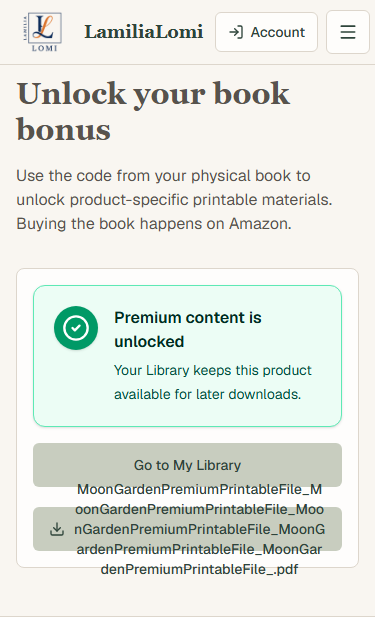
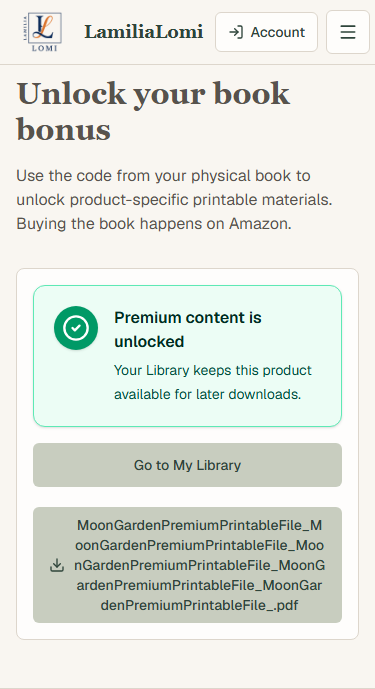
Keep long download names inside their buttons

diff --git a/tests/e2e/premium-mobile-overflow.spec.ts b/tests/e2e/premium-mobile-overflow.spec.ts
@@ -59,8 +59,14 @@ test("unlocked premium and account fit narrow mobile widths", async ({ page }, t
     await expect.poll(() => page.evaluate(() => document.documentElement.scrollWidth <= document.documentElement.clientWidth)).toBe(true);
     await expect(downloadLink).toBeVisible();
     const bounds = await downloadLink.boundingBox();
-    expect(bounds).not.toBeNull();
-    expect(bounds!.x + bounds!.width).toBeLessThanOrEqual(width + 1);
+    const filenameBounds = await filename.boundingBox();
+    const libraryBounds = await page.getByTestId("unlock-success-state").locator("..")
+      .getByRole("link", { name: "Go to My Library" }).boundingBox();
+    if (!bounds || !filenameBounds || !libraryBounds) throw new Error("Premium actions must be visible.");
+    expect(bounds.x + bounds.width).toBeLessThanOrEqual(width + 1);
+    expect(bounds.y).toBeGreaterThanOrEqual(libraryBounds.y + libraryBounds.height);
+    expect(filenameBounds.y).toBeGreaterThanOrEqual(bounds.y);
+    expect(filenameBounds.y + filenameBounds.height).toBeLessThanOrEqual(bounds.y + bounds.height);
     await page.getByTestId("product-unlock-section").screenshot({ path: join(screenshotDirectory, `premium-unlocked-${width}.png`) });
   }
 });

diff --git a/src/app/api/admin/products/[productId]/shared-code/route.ts b/src/app/api/admin/products/[productId]/shared-code/route.ts
@@ -23,9 +23,9 @@ export async function POST(request: Request, { params }: Context) {
   if (!body || typeof body !== "object" || typeof (body as { active?: unknown }).active !== "boolean") return json({ error: "invalid_request" }, 400);
   const active = (body as { active: boolean }).active;
   const rawCode = typeof (body as { code?: unknown }).code === "string" ? (body as { code: string }).code.trim() : null;
+  if (rawCode && !/^[A-Za-z0-9]+(?:-[A-Za-z0-9]+)*$/.test(rawCode)) return json({ error: "invalid_code_format" }, 400);
+  if (rawCode && (rawCode.length < 3 || rawCode.length > MAX_PREMIUM_CODE_LENGTH)) return json({ error: "invalid_code_length" }, 400);
   const requestedCode = rawCode ? rawCode.toUpperCase() : null;
-  if (requestedCode && !/^[A-Z0-9]+(?:-[A-Z0-9]+)*$/.test(requestedCode)) return json({ error: "invalid_code_format" }, 400);
-  if (requestedCode && (requestedCode.length < 3 || requestedCode.length > MAX_PREMIUM_CODE_LENGTH)) return json({ error: "invalid_code_length" }, 400);
   try {
     const currentSharedCode = await getExistingSharedCode(productId);
     const codeForMutation = active && requestedCode ? requestedCode : currentSharedCode?.code;

diff --git a/tests/e2e/kdp-shared-admin.spec.ts b/tests/e2e/kdp-shared-admin.spec.ts
@@ -39,10 +39,16 @@ test("admin creates a permanent shared code, downloads print files, toggles and 
   const disclosure = manager.locator("xpath=ancestor::details[1]");
   if (await disclosure.count()) await disclosure.locator("summary").click();
   const enteredCode = "KDP-E2E-PRINT-2026";
-  await manager.getByLabel("Kod do wpisania").fill(enteredCode);
+  const field = manager.getByLabel("Kod do wpisania");
+  const createButton = manager.getByRole("button", { name: "Utwórz kod premium i QR" });
+  await expect(async () => {
+    await field.fill("");
+    await field.fill(enteredCode);
+    await expect(createButton).toBeEnabled({ timeout: 1_000 });
+  }).toPass({ timeout: 20_000 });
   const [created] = await Promise.all([
     page.waitForResponse((response) => response.url().endsWith(`/api/admin/products/${productId}/shared-code`) && response.request().method() === "POST", { timeout: 120_000 }),
-    manager.getByRole("button", { name: "Utwórz kod premium i QR" }).click(),
+    createButton.click(),
   ]);
   expect(created.status()).toBe(200);
   const code = manager.getByLabel("Wspólny kod premium");

diff --git a/src/app/[locale]/(product-detail)/products/[slug]/page.tsx b/src/app/[locale]/(product-detail)/products/[slug]/page.tsx
@@ -199,11 +199,11 @@ async function ProductUnlockSection({
                   {downloadLinks.map(({ asset, href }) => (
                     <a
                       key={asset.id}
-                      className={buttonClassName({ variant: "secondary", className: "w-full min-w-0 whitespace-normal break-words text-center" })}
+                      className={buttonClassName({ variant: "secondary", className: "h-auto min-h-11 w-full min-w-0 whitespace-normal text-center" })}
                       href={href}
                     >
-                      <Download className="size-4" aria-hidden />
-                      <span className="min-w-0 flex-1 break-all">{asset.title ?? copy("download")}</span>
+                      <Download className="size-4 shrink-0" aria-hidden />
+                      <span className="min-w-0 flex-1 [overflow-wrap:anywhere]">{asset.title ?? copy("download")}</span>
                     </a>
                   ))}
                 </div>

diff --git a/src/app/admin/products/shared-premium-code-manager.tsx b/src/app/admin/products/shared-premium-code-manager.tsx
@@ -17,7 +17,7 @@ export function SharedPremiumCodeManager({ productId, isPublished, initialCode }
     setBusy(true);
     setError("");
     try {
-      const response = await fetch(endpoint, { method: "POST", headers: { "content-type": "application/json" }, body: JSON.stringify({ active, ...(active && !code ? { code: draft.trim().toUpperCase() } : {}) }) });
+      const response = await fetch(endpoint, { method: "POST", headers: { "content-type": "application/json" }, body: JSON.stringify({ active, ...(active && !code ? { code: draft.trim() } : {}) }) });
       const result = await response.json();
       if (!response.ok || !result.code) throw new Error(result.error === "duplicate_code" ? "Ten kod jest już używany. Wybierz inny." : result.error === "invalid_code_format" || result.error === "invalid_code_length" ? "Użyj 3–128 znaków A–Z, 0–9 i myślników." : "Nie udało się zapisać wspólnego kodu. Spróbuj ponownie.");
       setCode(result.code);
